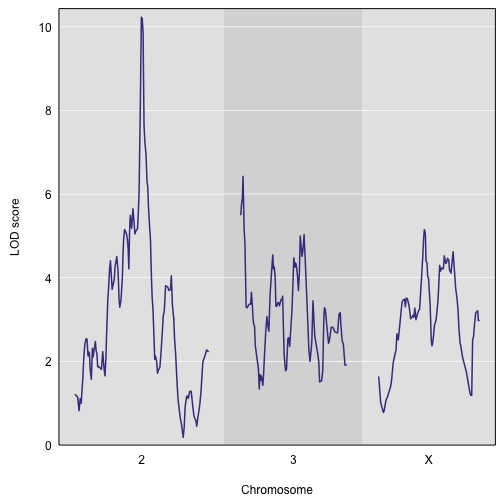
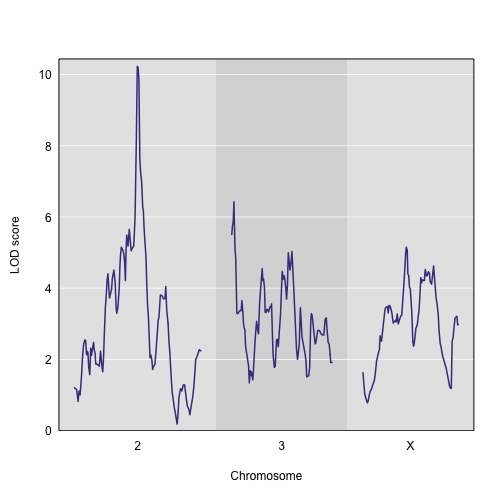
removed eval = FALSE and updated data download instructions

diff --git a/_episodes/12-snp-assoc.md b/_episodes/12-snp-assoc.md
@@ -40,9 +40,7 @@ You can download the data from a single zip file, as follows:
 
 
 ~~~
-file <- paste0("https://raw.githubusercontent.com/rqtl/",
-               "qtl2data/master/DOex/DOex.zip")
-DOex <- read_cross2(file)
+DOex <- read_cross2(file = "https://raw.githubusercontent.com/rqtl/qtl2data/master/DOex/DOex.zip")
 ~~~
 {: .r}
 
@@ -56,8 +54,6 @@ pr <- calc_genoprob(DOex, error_prob=0.002)
 apr <- genoprob_to_alleleprob(pr)
 ~~~
 {: .r}
-
-
 
 We calculate kinship matrices (using the "LOCO" method, though with the caveat that here we are only considering genotypes on three chromosomes).
 
@@ -96,7 +92,6 @@ Here's a plot of the results.
 
 
 ~~~
-par(mar=c(4.1, 4.1, 0.6, 0.6))
 plot(out, DOex$gmap)
 ~~~
 {: .r}
@@ -143,20 +138,11 @@ We want R/qtl2 to permit different ways of storing this information. For the CC 
 
 We provide a template for how to use R/qtl2 to connect to SNP and gene databases, with the functions `create_variant_query_func()` and `create_gene_query_func()`. Each returns a function for querying variant and gene databases, respectively. The query functions that are returned take just three arguments (chr, start, end end), and themselves return a data frame of variants on the one hand and genes on the other.
 
-If you are analyzing the CC lines or a DO population, you can download the SQLite databases that we have prepared and made available on Figshare:
+During [setup](https://smcclatchy.github.io/mapping/setup/) you would have downloaded the SQLite databases from Figshare and placed these in your `data` directory:
 
 - [cc_variants.sqlite doi:10.6084/m9.figshare.5280229.v2](https://figshare.com/articles/SQLite_database_of_variants_in_Collaborative_Cross_founder_mouse_strains/5280229/2), variants in the Collaborative Cross founders (3 GB)
 - [mouse_genes.sqlite doi:10.6084/m9.figshare.5280238.v4](https://figshare.com/articles/SQLite_database_with_mouse_gene_annotations_from_Mouse_Genome_Informatics_MGI_at_The_Jackson_Laboratory/5280238/4) full set of mouse gene annotations (677 MB)
 - [mouse_genes_mgi.sqlite doi:10.6084/m9.figshare.5286019.v5](https://figshare.com/articles/SQLite_database_with_MGI_mouse_gene_annotations_from_Mouse_Genome_Informatics_MGI_at_The_Jackson_Laboratory/5286019/5) just the MGI mouse gene annotations (11 MB)
-
-For example, to download cc_variants.sqlite and mouse_genes_mgi.sqlite, we’d go to the figshare sites above and determine the URLs for downloading the files, and then do the following:
-
-
-~~~
-download.file("https://ndownloader.figshare.com/files/9746485", "cc_variants.sqlite")
-download.file("https://ndownloader.figshare.com/files/9746452", "mouse_genes_mgi.sqlite")
-~~~
-{: .r}
 
 To create a function for querying the CC variants, call `create_variant_query_func()` with the path to the `cc_variants.sqlite` file:
 
@@ -246,6 +232,8 @@ plot_snpasso(out_snps$lod, out_snps$snpinfo)
 ~~~
 {: .r}
 
+<img src="../fig/rmd-12-plot_snp_asso-1.png" title="plot of chunk plot_snp_asso" alt="plot of chunk plot_snp_asso" style="display: block; margin: auto;" />
+
 We can actually just type plot() rather than plot_snpasso(), because with the snpinfo table in place of a genetic map, plot() detects that a SNP association plot should be created.
 
 
@@ -254,6 +242,8 @@ par(mar=c(4.1, 4.1, 0.6, 0.6))
 plot(out_snps$lod, out_snps$snpinfo)
 ~~~
 {: .r}
+
+<img src="../fig/rmd-12-plot_snp_asso_wplot-1.png" title="plot of chunk plot_snp_asso_wplot" alt="plot of chunk plot_snp_asso_wplot" style="display: block; margin: auto;" />
 
 We can use our `query_genes()` function to identify the genes in the region, and `plot_genes()` to plot their locations. But also `plot_snpasso()` can take the gene locations with the argument genes and then display them below the SNP association results. Here, we are also highlighting the top SNPs in the SNP association plot using the `drop_hilit` argument. SNPs with LOD score within `drop_hilit` of the maximum are shown in pink.
 
@@ -265,6 +255,8 @@ plot(out_snps$lod, out_snps$snpinfo, drop_hilit=1.5, genes=genes)
 ~~~
 {: .r}
 
+<img src="../fig/rmd-12-id_and_plot_genes-1.png" title="plot of chunk id_and_plot_genes" alt="plot of chunk id_and_plot_genes" style="display: block; margin: auto;" />
+
 To get a table of the SNPs with the largest LOD scores, use the function `top_snps()`. This will show all SNPs with LOD score within some amount (the default is 1.5) of the maximum SNP LOD score. We’re going to display just a subset of the columns.
 
 
@@ -273,6 +265,88 @@ top <- top_snps(out_snps$lod, out_snps$snpinfo)
 print(top[,c(1, 8:15, 20)], row.names=FALSE)
 ~~~
 {: .r}
+
+
+
+~~~
+                 snp_id A_J C57BL_6J 129S1_SvImJ NOD_ShiLtJ NZO_HlLtJ
+            rs212414861   1        1           1          1         2
+            rs229578122   1        1           1          1         2
+            rs254318131   1        1           1          1         2
+            rs217679969   1        1           1          1         2
+            rs238404461   1        1           1          1         2
+            rs262749925   1        1           1          1         2
+            rs231282689   1        1           1          1         2
+            rs260286709   1        1           1          1         2
+             rs27396282   1        1           1          1         2
+            rs263841533   1        1           1          1         2
+            rs231205920   1        1           1          1         2
+            rs242885221   1        1           1          1         2
+            rs586746690   1        1           2          1         2
+             rs49002164   1        1           2          1         2
+ SV_2_96945406_96945414   1        1           1          1         2
+            rs244595995   1        1           2          1         2
+ SV_2_96993116_96993118   1        1           1          1         2
+            rs220351620   1        1           1          1         2
+ SV_2_98037843_98039847   1        1           1          1         2
+             rs52579091   1        1           1          1         2
+            rs243489710   1        1           1          1         2
+            rs244316263   1        1           1          1         2
+            rs219729956   1        1           1          1         2
+ SV_2_98133843_98141078   1        1           1          1         2
+ SV_2_98140843_98151843   1        1           1          1         2
+ SV_2_98153843_98189843   1        1           1          1         2
+            rs235315566   1        1           1          1         2
+            rs250167663   1        1           1          1         2
+            rs234831418   1        1           1          1         2
+            rs240832432   1        1           1          1         2
+            rs220815439   1        1           1          1         2
+            rs579950897   1        1           1          1         2
+            rs224994851   1        1           1          1         2
+            rs248208898   1        1           1          1         2
+            rs245525925   1        1           1          1         2
+            rs229631954   1        1           1          1         2
+            rs229965402   1        1           1          1         2
+ CAST_EiJ PWK_PhJ WSB_EiJ      lod
+        2       1       1 7.226368
+        2       1       1 7.226368
+        2       1       1 7.226368
+        2       1       1 7.226368
+        2       1       1 7.226368
+        2       1       1 7.226368
+        2       1       1 7.226368
+        2       1       1 7.226368
+        2       1       1 7.226368
+        2       1       1 7.226368
+        2       1       1 7.226368
+        2       1       1 7.226368
+        2       1       1 6.622040
+        2       1       1 6.622040
+        3       1       1 7.226368
+        2       1       1 6.622040
+        2       1       1 7.226368
+        1       1       1 6.378804
+        1       1       1 6.378804
+        1       1       1 6.378804
+        1       1       1 6.378804
+        1       1       1 6.378804
+        1       1       1 6.378804
+        1       1       1 6.378804
+        1       1       1 6.378804
+        1       1       1 6.378804
+        1       1       1 6.378804
+        1       1       1 6.378804
+        1       1       1 6.378804
+        1       1       1 6.378804
+        1       1       1 6.378804
+        1       1       1 6.378804
+        1       1       1 6.378804
+        1       1       1 6.378804
+        1       1       1 6.378804
+        1       1       1 6.378804
+        1       1       1 6.378804
+~~~
+{: .output}
 
 The top SNPs all have NZO and CAST with a common allele, different from the other 6 founders. The next-best SNPs have NZO, CAST, and 129 with a common allele, and then there’s a group of SNPs where NZO has a unique allele.
 
@@ -292,6 +366,8 @@ par(mar=c(4.1, 4.1, 0.6, 0.6))
 plot(out_gwas$lod, out_gwas$snpinfo, altcol="green4", gap=0)
 ~~~
 {: .r}
+
+<img src="../fig/rmd-12-plot_gwas_scan-1.png" title="plot of chunk plot_gwas_scan" alt="plot of chunk plot_gwas_scan" style="display: block; margin: auto;" />
 
 Note that while there are LOD scores on the X chromosome that are as large as those on chromosome 2, we’re allowing a genotype × sex interaction on the X chromosome and so the test has 3 degrees of freedom (versus 2 degrees of freedom on the autosomes) and so the LOD scores will naturally be larger. If we’d used the allele probabilities (apr above, calculated from genoprob_to_alleleprob()) rather than the genotype probabilities, we would be performing a test with 1 degree of freedom on both the X chromosome and the autosomes.
 

diff --git a/setup.md b/setup.md
@@ -83,7 +83,6 @@ download.file("ftp://ftp.jax.org/dgatti/qtl2_workshop/qtl2_demo.Rdata", "./data/
 {: .r}
 
 
- You will
-need these for the final lesson episode on QTL analysis in Diversity Outbred mice.
+You will need these for the final lesson episodes on SNP association mapping and QTL analysis in Diversity Outbred mice.
 
 
